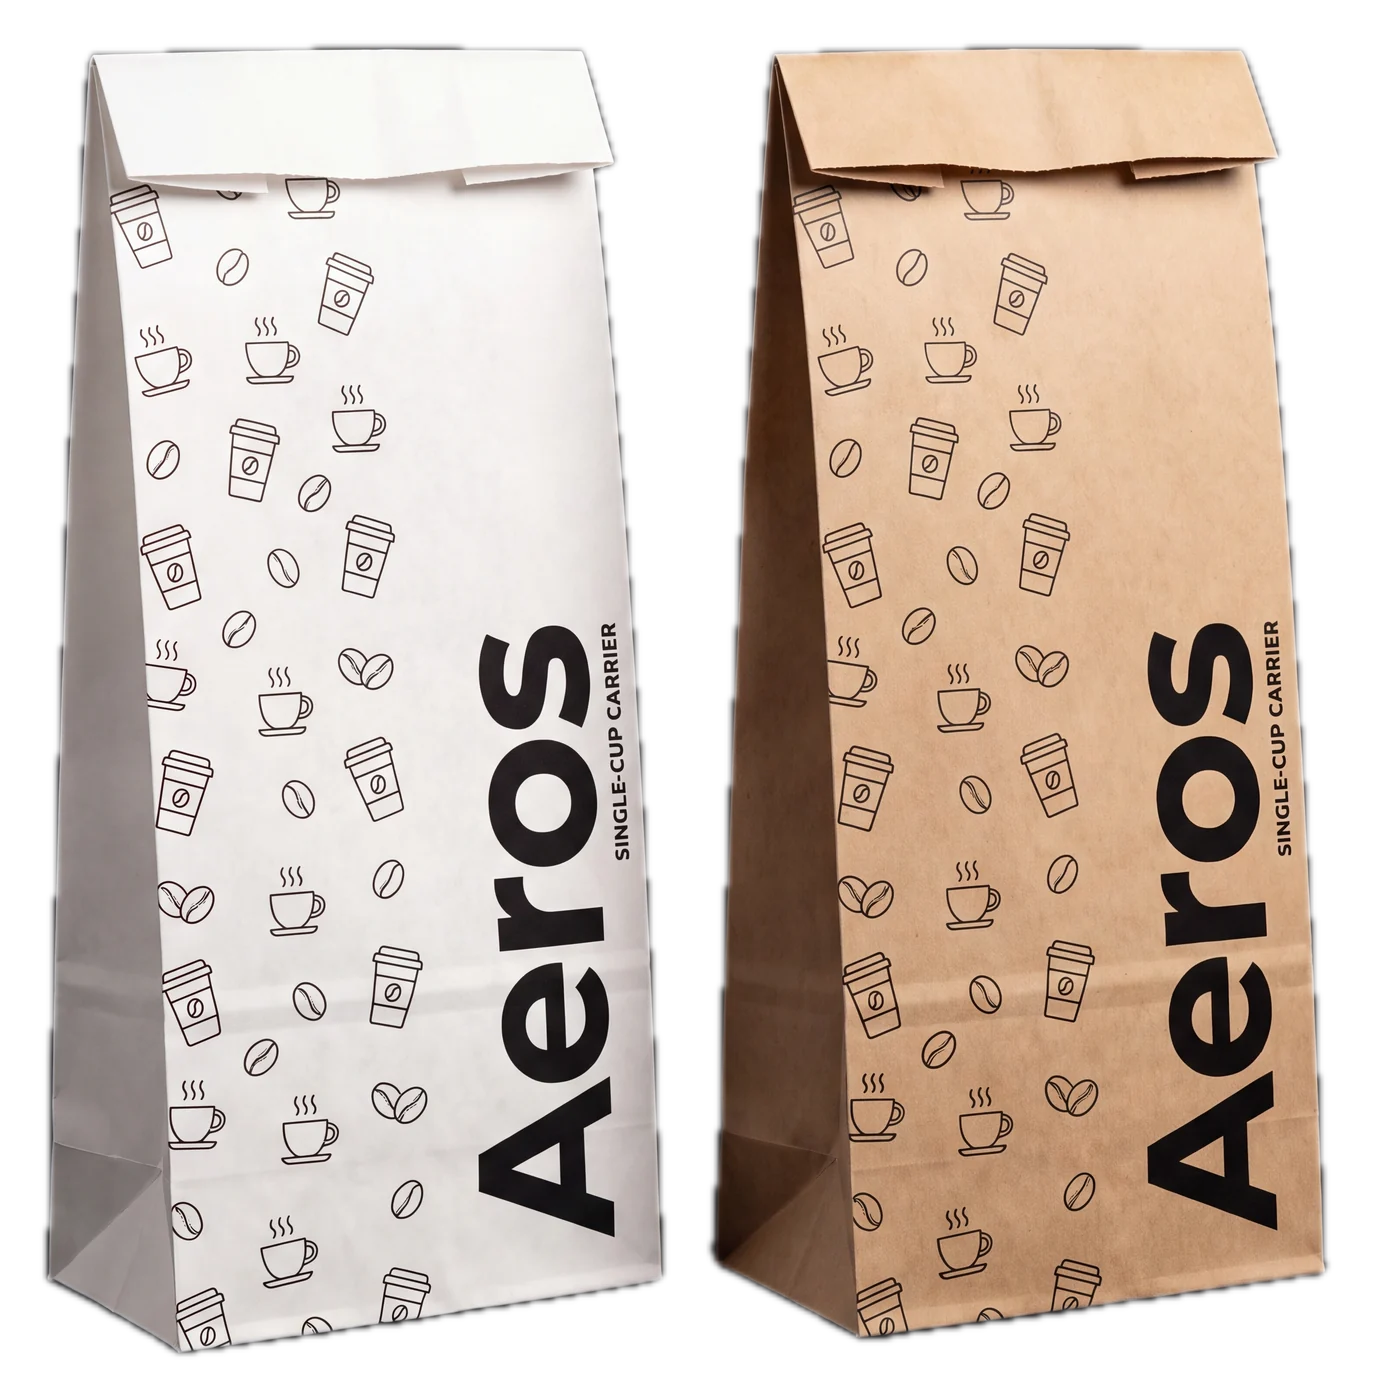
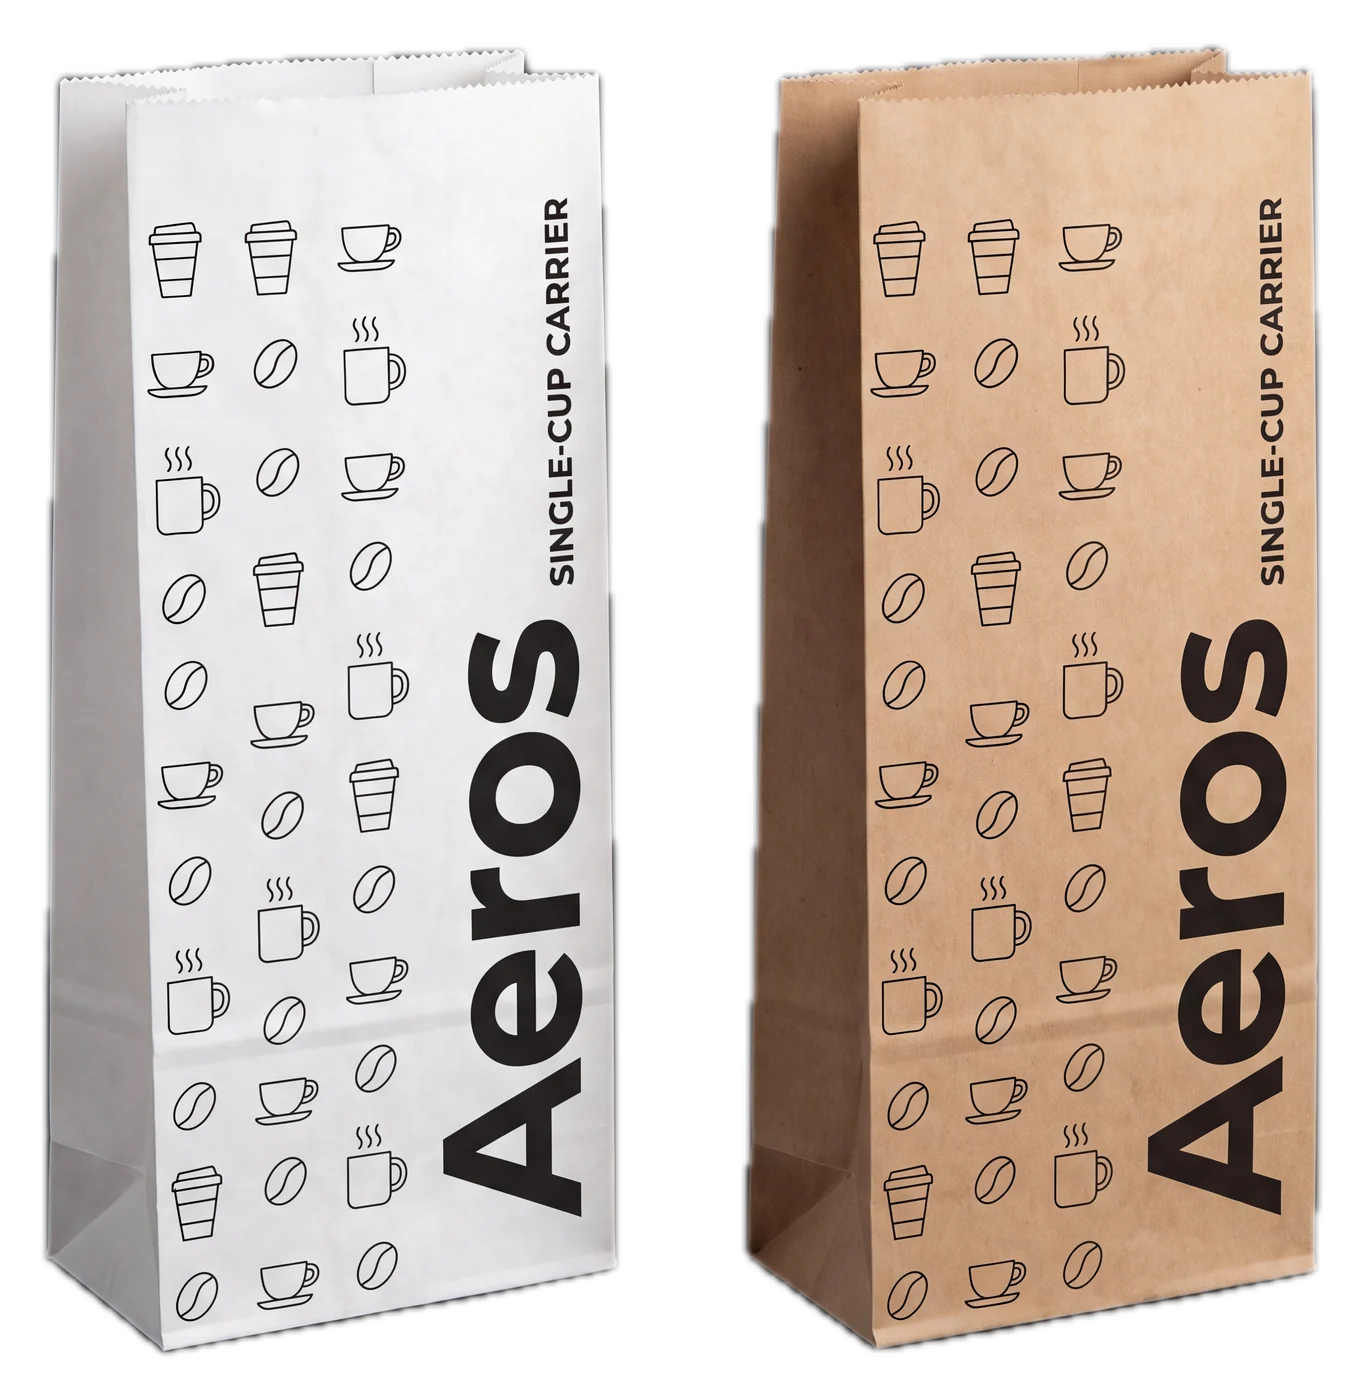
feat(aeros-select): cup delivery lifecycle, product-page schema, no hero shift
Cup delivery system: the carrier is an SOS sack with no handles, so every
bag render is replaced with one that matches, in white and brown. The
page now leads with the workflow as a numbered process — foil-seal on an
AeroSeal, bagasse lid, fold-flat holder, SOS bag, fold and hand over. The
sealing step uses the existing AeroSeal V3 image from the cup-sealer page
rather than a render, and links through to it. Adds a 'process' section
kind to carry it.

Every Aeros Select page now emits Product, BreadcrumbList and — where the
page has a real FAQ — FAQPage structured data, plus a canonical URL.

The cutout hero sat in an unsized container, so it pushed the page down
as it loaded. The container now reserves its height. The V5 hero moves to
WebP with the rest of the imagery.

Changed region(s): [[0.0308, 0.0307, 0.9846, 0.9829], [0.9538, 0.8907, 0.9846, 0.9214]]

diff --git a/lib/aeros-select.ts b/lib/aeros-select.ts
@@ -89,6 +89,23 @@ type VideoSection = {
   poster?: string
 }
 
+type ProcessSection = {
+  kind: 'process'
+  heading: string
+  intro?: string
+  /** Ordered steps, rendered as a numbered flow with an image per step. */
+  steps: Array<{
+    name: string
+    body: string
+    image: string
+    /** See hero.image.fit — 'cutout' (default) sits on the page, 'bleed' fills. */
+    imageFit?: 'cutout' | 'bleed'
+    /** Optional note, e.g. pointing at another Aeros Select product. */
+    href?: string
+    hrefLabel?: string
+  }>
+}
+
 type DiagramSection = {
   kind: 'diagram'
   heading: string
@@ -124,6 +141,7 @@ export type AerosSelectSection =
   | VideoSection
   | FormatShowcaseSection
   | DiagramSection
+  | ProcessSection
 
 export type AerosSelectProduct = {
   slug: string
@@ -1092,7 +1110,7 @@ const v5: AerosSelectProduct = {
     subtitle:
       'For the café that wants to serve salad. For the pasta bar that wants to serve dessert. For the biryani house that wants to serve thick shakes. Open the menu up without worrying about leaks and spills in delivery.',
     image: {
-      src: '/products/v5/hero.png',
+      src: '/products/v5/hero.webp',
       alt: 'AeroSeal V5 sealing the full portfolio — soups, ramen, rice, biryani, gravy, and sauce containers',
       // Shot on a beige backdrop, so it fills the frame rather than sitting as
       // a beige rectangle inside a grey card.
@@ -2146,35 +2164,70 @@ const cupDeliverySystem: AerosSelectProduct = {
   slug: 'cup-delivery-system',
   name: 'Cup Delivery System',
   tagline:
-    'Holder plus carrier bag — a fold-flat kraft holder that cradles the cup and a tall bag that keeps it upright, so delivered drinks arrive sealed and spill-free.',
+    'Seal, holder, SOS bag — the complete workflow that gets a drink from your counter to the customer sealed, upright, and untouched.',
   hero: {
     eyebrow: 'Aeros Select · Packaging',
     title: 'Drinks that arrive upright.',
     subtitle:
-      'A delivered drink should not land tipped, leaking, or half-empty. The complete cup delivery system pairs a fold-flat kraft holder that cradles the cup with a tall carrier bag that keeps it upright the whole way — sealed at the counter, opened only by your customer. One cup or two, white or brown, all recycled kraft.',
+      'A delivered drink should not land tipped, leaking, or half-empty. This is the whole workflow — foil-seal the cup on an AeroSeal, cap it with a bagasse lid, seat it in a fold-flat holder, drop it into a tall SOS carrier bag, and fold the top shut at the counter. One cup or two, white or brown kraft.',
     image: {
       src: '/products/cup-delivery-system/hero.webp',
-      alt: 'Clear cold cup standing upright inside a tall Aeros-printed kraft carrier bag',
+      alt: 'Tall Aeros-printed white kraft SOS carrier bag, top folded over and sealed, with a drink inside',
       aspect: 'tall',
     },
   },
   highlights: [
-    { label: 'The system', value: 'Fold-flat holder + carrier bag' },
+    { label: 'The system', value: 'Seal · lid · holder · SOS bag' },
     { label: 'Capacity', value: 'One cup or two' },
     { label: 'Finish', value: 'White or brown recycled kraft' },
-    { label: 'Recyclable', value: 'Fully recyclable kraft' },
+    { label: 'Closure', value: 'Fold-over top, sealed at counter' },
   ],
   sections: [
     {
-      kind: 'variants',
-      heading: 'Two parts, one job.',
+      kind: 'process',
+      heading: 'Counter to customer, in five steps.',
       intro:
-        'The holder grips the base so the cup cannot tip; the bag stands tall around it and seals at the counter. Order them together as the system, or either part on its own.',
+        'Every part of the system does one job in a sequence. This is what a beverage order actually goes through on the way out of your kitchen.',
+      steps: [
+        {
+          name: 'Pour and foil-seal the cup',
+          body: 'Pour the drink, then seal the rim with a foil membrane on an AeroSeal machine. The seal is what makes a delivered beverage genuinely spill-proof — not a lid pressed on and hoped for.',
+          image: '/products/cup-delivery-system/step-seal-machine.webp',
+          href: '/products/aeros-select/cup-sealer',
+          hrefLabel: 'See the AeroSeal Cup Sealer',
+        },
+        {
+          name: 'Cap it with a bagasse lid',
+          body: 'A moulded sugarcane-fibre lid goes on over the seal. The foil holds the liquid; the lid protects the seal, gives the cup a drinking spout, and keeps the whole unit compostable.',
+          image: '/products/cup-delivery-system/step-sealed.webp',
+        },
+        {
+          name: 'Seat it in the fold-flat holder',
+          body: 'The corrugated kraft holder grips the base so the cup stays level and cannot rock. It ships and stores dead flat, then folds up in a second at the counter.',
+          image: '/products/cup-delivery-system/step-holder.webp',
+        },
+        {
+          name: 'Drop it into the SOS carrier bag',
+          body: 'The cup and holder go into a tall SOS bag — a flat-bottomed, gusseted sack with no handles — sized so the cup stands upright the whole way. White or brown kraft.',
+          image: '/products/cup-delivery-system/step-inbag.webp',
+        },
+        {
+          name: 'Fold the top and hand it over',
+          body: 'Fold the top of the bag over at the counter and the order is sealed shut. It reaches the customer exactly as it left the pass — opened by them, not on the ride.',
+          image: '/products/cup-delivery-system/step-folded.webp',
+        },
+      ],
+    },
+    {
+      kind: 'variants',
+      heading: 'What you actually order.',
+      intro:
+        'The holder and the bag are the two parts we stock for this system. Take them together, or either on its own if you already run the other.',
       items: [
         {
           name: 'Fold-flat cup holder',
           tags: ['Single or double', 'Corrugated E-flute kraft', 'Ships flat'],
-          body: 'A corrugated kraft holder that cradles the cup base so it stays upright and level. It ships and stores dead flat, then folds up at the counter — no bulky pre-formed trays taking over the back room. Single-cup and double-cup versions.',
+          body: 'A corrugated kraft holder that cradles the cup base so it stays upright and level. It ships and stores dead flat — no bulky pre-formed trays taking over the back room. Single-cup and double-cup versions.',
           images: [
             '/products/cup-delivery-system/single-holder.webp',
             '/products/cup-delivery-system/double-holder.webp',
@@ -2186,9 +2239,9 @@ const cupDeliverySystem: AerosSelectProduct = {
           ],
         },
         {
-          name: 'Upright carrier bag',
-          tags: ['Single or double', 'White or brown kraft', 'THIS SIDE UP'],
-          body: 'A tall SOS kraft bag sized to keep the cup standing the whole ride. Printed with a coffee-icon pattern and a "THIS SIDE UP — DO NOT TILT" cue, with a fold-over top that seals at the counter so the order is only opened by the customer.',
+          name: 'SOS carrier bag',
+          tags: ['Single or double', 'White or brown kraft', 'No handles'],
+          body: 'A tall SOS sack — flat bottom, side gussets, no handles — sized to keep the cup standing the whole ride. Printed with a coffee-icon pattern, with a fold-over top that seals at the counter.',
           images: ['/products/cup-delivery-system/carrier-bags.webp'],
           specs: [
             { label: 'Single carrier', value: 'SOS · 130 × 90 × 310 mm · white or brown kraft · 500 / case' },
@@ -2203,20 +2256,20 @@ const cupDeliverySystem: AerosSelectProduct = {
       heading: 'Details that travel well.',
       items: [
         {
+          name: 'Sealed, not just lidded',
+          body: 'A foil seal across the rim is the difference between a drink that survives the ride and one that does not. The bagasse lid then protects that seal and gives the customer a spout.',
+        },
+        {
           name: 'Holds every cup upright',
-          body: 'The holder grips the base and the bag stands tall around it, so the cup cannot tip in transit. "THIS SIDE UP — DO NOT TILT" is printed on the bag as a cue to the rider.',
+          body: 'The holder grips the base and the SOS bag stands tall around it, so the cup cannot tip between the counter and the door.',
         },
         {
           name: 'Fold-flat holders',
-          body: 'The holders ship and store dead flat and fold up in a second at the counter — the grip of a moulded carrier without the storage footprint of one.',
+          body: 'The grip of a moulded carrier without the storage footprint — holders ship dead flat and fold up in a second at the counter.',
         },
         {
-          name: 'Sealed-at-counter tamper flap',
-          body: 'The fold-over top seals the bag at the counter, so the order reaches the customer exactly as it left the pass — opened by them, not on the way.',
-        },
-        {
-          name: 'One cup or two',
-          body: 'Single and double across both the holder and the bag, so a solo coffee and a two-drink order both travel in the format built for them.',
+          name: 'Sealed at the counter',
+          body: 'The bag has no handles by design; the top folds over into a closure instead. The order is opened by your customer, not on the way.',
         },
         {
           name: 'Recycled kraft, recyclable',
@@ -2226,7 +2279,7 @@ const cupDeliverySystem: AerosSelectProduct = {
     },
     {
       kind: 'comparison',
-      eyebrow: '/ white or brown',
+      eyebrow: '/ single or double',
       rowHeader: '',
       heading: 'Single or double, white or brown.',
       intro:
@@ -2246,11 +2299,11 @@ const cupDeliverySystem: AerosSelectProduct = {
       items: [
         {
           name: 'Cafés that deliver',
-          body: 'Cold brew, iced lattes, and shakes that need to arrive upright and unspilled — the holder and bag do together what a loose cup in a bag never could.',
+          body: 'Cold brew, iced lattes, and shakes that need to arrive upright and unspilled — the seal, holder, and bag do together what a loose cup in a bag never could.',
         },
         {
           name: 'Cloud kitchens & QSR',
-          body: 'The sealed fold-over top is a tamper cue on every beverage order, and the fold-flat holder keeps the back-room footprint small.',
+          body: 'The folded top is a tamper cue on every beverage order, and the fold-flat holder keeps the back-room footprint small.',
         },
         {
           name: 'Two-drink orders',
@@ -2266,14 +2319,15 @@ const cupDeliverySystem: AerosSelectProduct = {
       kind: 'specs',
       heading: 'Specifications.',
       items: [
-        { label: 'System', value: 'Fold-flat cup holder + upright SOS carrier bag' },
+        { label: 'System', value: 'Foil seal + bagasse lid + fold-flat holder + SOS carrier bag' },
+        { label: 'Bag format', value: 'SOS (self-opening sack) — flat bottom, side gussets, no handles' },
         { label: 'Single holder', value: 'Corrugated E-flute brown kraft · 800 / case' },
         { label: 'Double holder', value: 'Corrugated E-flute brown kraft · 210 × 95 × 60 mm (L × W × H)' },
-        { label: 'Single carrier bag', value: 'SOS 130 × 90 × 310 mm (W × G × H) · white 80 gsm or brown 80 gsm · 500 / case' },
+        { label: 'Single carrier bag', value: 'SOS 130 × 90 × 310 mm (W × G × H) · white or brown kraft · 500 / case' },
         { label: 'Double carrier bag', value: 'SOS 230 × 125 × 335 mm (W × G × H) · white 100 gsm or brown 80 gsm · 500 / case' },
         { label: 'Finishes', value: 'White bleached kraft · natural brown kraft' },
         { label: 'Closure', value: 'Fold-over top, sealed at counter — tamper-evident' },
-        { label: 'Print', value: 'Coffee-icon kraft · "THIS SIDE UP — DO NOT TILT" · custom print on request' },
+        { label: 'Sealing', value: 'Foil seal applied on an AeroSeal cup sealer — sold separately' },
         { label: 'Material', value: 'Recycled kraft — fully recyclable' },
       ],
     },
@@ -2281,6 +2335,14 @@ const cupDeliverySystem: AerosSelectProduct = {
       kind: 'faq',
       heading: 'FAQ.',
       items: [
+        {
+          q: 'Do I need the sealing machine for this to work?',
+          a: 'The foil seal is what makes a delivered drink genuinely spill-proof, and that needs an AeroSeal cup sealer — we sell those separately under Aeros Select. You can run the holder and bag without it, but you lose the seal that stops leaks.',
+        },
+        {
+          q: 'Why does the bag have no handles?',
+          a: 'It is an SOS sack — a flat-bottomed, gusseted paper bag designed to stand up on its own and be folded shut at the top. The fold is the closure and the tamper cue; handles would get in the way of both.',
+        },
         {
           q: 'Do I need both the holder and the bag?',
           a: 'They are designed to work together — the holder grips the base and the bag keeps the whole thing upright and sealed — but you can order either part on its own if you already run the other.',
@@ -2294,12 +2356,8 @@ const cupDeliverySystem: AerosSelectProduct = {
           a: 'Both. Every carrier ships in a white bleached-kraft and a natural brown-kraft finish — the white on slightly heavier 100 gsm paper on the double. Pick the colour that suits your brand.',
         },
         {
-          q: 'Why fold-flat holders?',
-          a: 'A moulded carrier gives you grip but eats storage; a fold-flat holder gives the same grip and ships dead flat, so it stores in a fraction of the space and folds up in a second at the counter.',
-        },
-        {
-          q: 'How does the tamper seal work?',
-          a: 'The bag has a fold-over top that is sealed at the counter after the drink goes in, so the order is only opened by your customer — a visible tamper cue on every beverage delivery.',
+          q: 'Which lid goes on top?',
+          a: 'A moulded sugarcane-fibre (bagasse) lid over the foil seal. It protects the seal in transit, gives the customer a spout, and keeps the cup-and-lid pair compostable.',
         },
         {
           q: 'What is the case pack?',

diff --git a/app/products/aeros-select/[slug]/page.tsx b/app/products/aeros-select/[slug]/page.tsx
@@ -8,6 +8,11 @@ import {
   getAerosSelectProductBySlug,
   type AerosSelectSection,
 } from '@/lib/aeros-select'
+import {
+  productJsonLd,
+  faqJsonLd,
+  breadcrumbJsonLd,
+} from '@/lib/seo'
 
 export function generateStaticParams() {
   return aerosSelectProducts.map((p) => ({ slug: p.slug }))
@@ -30,6 +35,7 @@ export async function generateMetadata({
   return {
     title,
     description,
+    alternates: { canonical: `/products/aeros-select/${slug}` },
     openGraph: { title, description, type: 'article' },
   }
 }
@@ -45,8 +51,35 @@ export default async function AerosSelectDetailPage({
 
   const { hero, highlights, sections, orderUrl, orderCtaLabel } = product
 
+  // These pages already carry a real FAQ section, so the FAQ schema describes
+  // content that is genuinely on the page rather than markup-only claims.
+  const faqSection = sections.find((s) => s.kind === 'faq')
+  const structuredData: Array<Record<string, unknown>> = [
+    productJsonLd({
+      name: product.name,
+      description: product.tagline,
+      path: `/products/aeros-select/${product.slug}`,
+      image: hero.image?.src,
+    }),
+    breadcrumbJsonLd([
+      { name: 'Products', path: '/products' },
+      { name: 'Aeros Select', path: '/products/aeros-select' },
+      { name: product.name, path: `/products/aeros-select/${product.slug}` },
+    ]),
+  ]
+  if (faqSection && faqSection.kind === 'faq' && faqSection.items.length > 0) {
+    structuredData.push(faqJsonLd(faqSection.items))
+  }
+
   return (
     <main className="min-h-screen bg-white">
+      {structuredData.map((data, i) => (
+        <script
+          key={i}
+          type="application/ld+json"
+          dangerouslySetInnerHTML={{ __html: JSON.stringify(data) }}
+        />
+      ))}
       <Navbar />
 
       {/* Hero */}
@@ -117,12 +150,14 @@ export default async function AerosSelectDetailPage({
               </div>
             ) : (
               // Background-free — sits on the page itself, no card, no edge.
-              <div className="mt-16 mx-auto max-w-2xl">
+              // The fixed height reserves the space before the image loads,
+              // so a cutout hero cannot shift the page as it arrives.
+              <div className="mt-16 mx-auto max-w-2xl h-[34rem] flex items-center justify-center">
                 {/* eslint-disable-next-line @next/next/no-img-element */}
                 <img
                   src={hero.image.src}
                   alt={hero.image.alt}
-                  className="w-full h-auto max-h-[34rem] object-contain mx-auto"
+                  className="max-w-full max-h-full object-contain"
                 />
               </div>
             ))}
@@ -219,6 +254,7 @@ function SectionRenderer({
           <FormatShowcaseContent section={section} />
         )}
         {section.kind === 'diagram' && <DiagramContent section={section} />}
+        {section.kind === 'process' && <ProcessContent section={section} />}
       </div>
     </section>
   )
@@ -708,6 +744,70 @@ function FormatShowcaseContent({
           </div>
         </div>
       </div>
+    </>
+  )
+}
+
+function ProcessContent({
+  section,
+}: {
+  section: Extract<AerosSelectSection, { kind: 'process' }>
+}) {
+  return (
+    <>
+      <SectionHeader
+        eyebrow="/ how it works"
+        heading={section.heading}
+        intro={section.intro}
+      />
+      <ol className="flex flex-col gap-4">
+        {section.steps.map((step, i) => (
+          <li
+            key={step.name}
+            className="bg-white rounded-3xl border border-border-default p-6 md:p-8"
+          >
+            <div className="grid md:grid-cols-[minmax(0,7rem)_minmax(0,1fr)] gap-6 md:gap-10 items-center">
+              <div
+                className={`aspect-square rounded-2xl overflow-hidden flex items-center justify-center ${
+                  step.imageFit === 'bleed' ? '' : 'p-1'
+                }`}
+              >
+                {/* eslint-disable-next-line @next/next/no-img-element */}
+                <img
+                  src={step.image}
+                  alt={step.name}
+                  loading="lazy"
+                  className={
+                    step.imageFit === 'bleed'
+                      ? 'w-full h-full object-cover'
+                      : 'w-full h-full object-contain'
+                  }
+                />
+              </div>
+              <div>
+                <div className="text-[10px] font-mono uppercase tracking-widest text-fg-muted/60 mb-2">
+                  Step {String(i + 1).padStart(2, '0')}
+                </div>
+                <h3 className="text-xl md:text-2xl font-bold text-fg-primary mb-3 tracking-tight">
+                  {step.name}
+                </h3>
+                <p className="text-fg-muted text-[15px] leading-relaxed">
+                  {step.body}
+                </p>
+                {step.href && (
+                  <Link
+                    href={step.href}
+                    className="mt-4 text-sm text-fg-primary font-medium inline-flex items-center gap-1 hover:gap-2 transition-all"
+                  >
+                    {step.hrefLabel ?? 'See full details'}{' '}
+                    <span aria-hidden>→</span>
+                  </Link>
+                )}
+              </div>
+            </div>
+          </li>
+        ))}
+      </ol>
     </>
   )
 }
